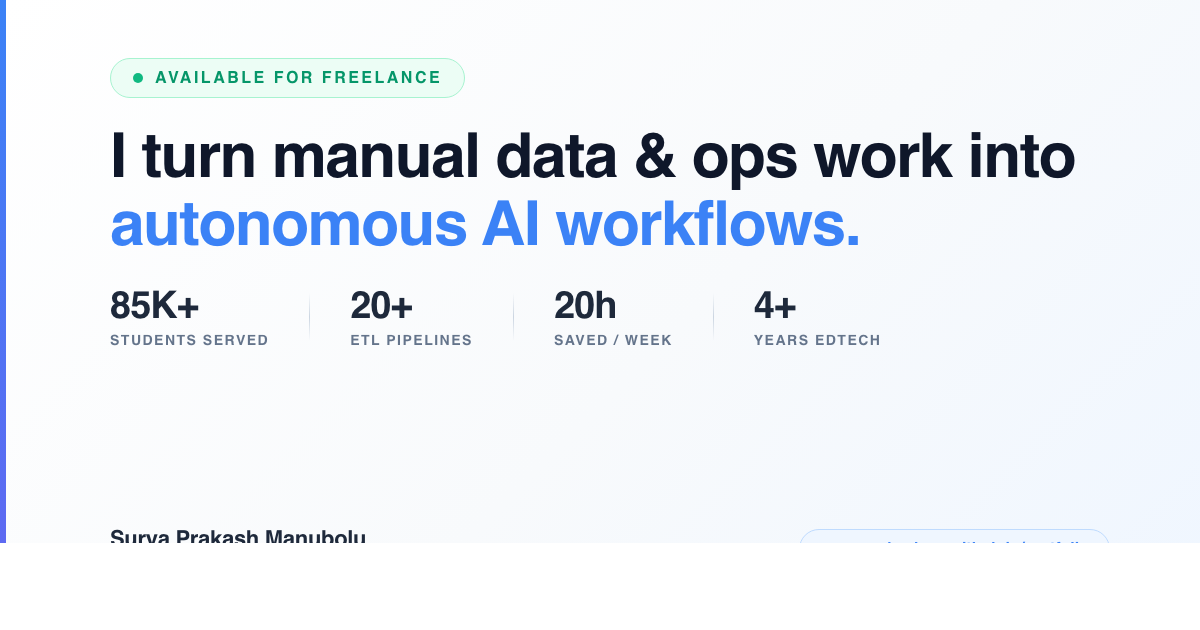
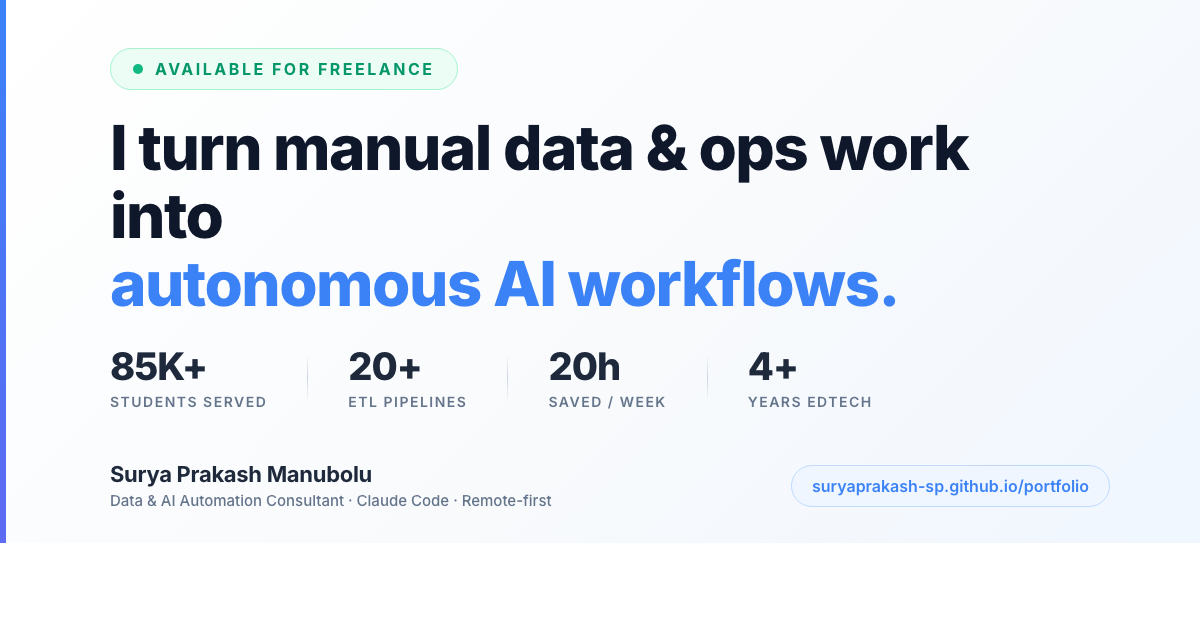
fix: OG image bottom-crop on WhatsApp link previews
WhatsApp crops ~15% off the bottom of 1200x630 OG cards, which was
clipping the identity row (name + role + URL) seen in the user's
WhatsApp screenshot. Push content into a safer zone by making the
bottom padding 120px (up from 58) while trimming top padding to 48px.
Net effect: identity row now sits at ~y=505 (inside WhatsApp's crop)
instead of ~y=572 (getting cut).

diff --git a/public/og-image-light.html b/public/og-image-light.html
@@ -19,7 +19,7 @@
       width: 100%; height: 100%;
       background: linear-gradient(135deg, #ffffff 0%, #f8fafc 55%, #eff6ff 100%);
       box-sizing: border-box;
-      padding: 58px 90px 58px 110px;
+      padding: 48px 90px 120px 110px;
       display: flex;
       flex-direction: column;
       justify-content: space-between;
